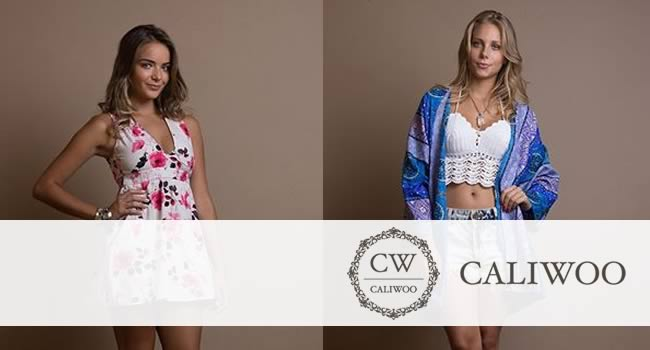
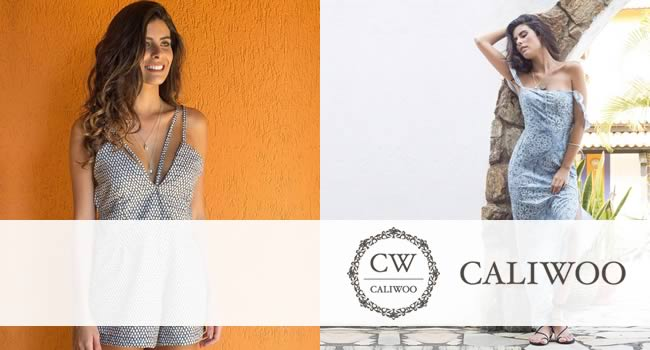
- alterada a disposição do texto do "sobre" - adicionado link no call-to-action da tabela de preços - alterada a imagem do cliente Caliwoo

diff --git a/_includes/sobre.html b/_includes/sobre.html
@@ -3,19 +3,24 @@
         <div class="row">
             <div class="col-lg-8 col-lg-offset-2 text-center">
                 <h2 class="section-heading">Nós temos o que seu negócio precisa!</h2>
-                <hr class="light">
-                <p class="text-faded">
-                    O Compre.io é uma plataforma integrada ao Instagram que visa aumentar a taxa de conversão nas lojas virtuais. O Instagram é uma ótima ferramenta para capitação de leads e possui um vasto feed de imagens, mas como transformar esses leads em clientes?
-                </p>
-                <p class="text-faded">
-                    Já imaginou quantos clientes gostaram de um produto, quiseram comprar e ao acessar o site não encontraram? E quantos desistiram da compra nesse processo de fechar o aplicativo, abrir o navegador, utilizar a ferramenta de busca... Muito complexo e demorado, certo?
-                </p>
-                <p class="text-faded">
-                    Foi pensando nisso, que surgiu o Compre.io !
-                </p>
-                <p class="text-faded">
-                    Ao invés de usar o link para a loja virtual, a marca troca o link do perfil do Instagram para sua pagina do Compre.io (por exemplo: <a style="color: #333" href="http://compre.io/caliwoostore">http://compre.io/caliwoostore</a>). O processo é bem simples, o cliente visualiza a foto, curte e clica no link. Na página do Compre.io, o cliente visualiza o mesmo feed de imagens do Instagram, mas com uma grande diferença, as imagens são links diretos para a página do produto. Em segundos o cliente sai do Instagram e está pronto para finalizar a compra.
-                </p>
+                <hr class="light" />
+                <div class="col-md-6">
+                    <p class="text-faded">
+                        O Compre.io é uma plataforma integrada ao Instagram que visa aumentar a taxa de conversão nas lojas virtuais. O Instagram é uma ótima ferramenta para capitação de leads e possui um vasto feed de imagens, mas como transformar esses leads em clientes?
+                    </p>
+                </div>
+                <div class="col-md-6">
+                    <p class="text-faded">
+                        Já imaginou quantos clientes gostaram de um produto, quiseram comprar e ao acessar o site não encontraram? E quantos desistiram da compra nesse processo de fechar o aplicativo, abrir o navegador, utilizar a ferramenta de busca... Muito complexo e demorado, certo?
+                    </p>
+                </div>
+                <div class="col-md-12">
+                    <h3>Foi pensando nisso, que surgiu o Compre.io !</h3>
+                    <hr class="light" />
+                    <p class="text-faded">
+                        Ao invés de usar o link para a loja virtual, a marca troca o link do perfil do Instagram para sua pagina do Compre.io (por exemplo: <a style="color: #333" href="http://compre.io/caliwoostore">http://compre.io/caliwoostore</a>). O processo é bem simples, o cliente visualiza a foto, curte e clica no link. Na página do Compre.io, o cliente visualiza o mesmo feed de imagens do Instagram, mas com uma grande diferença, as imagens são links diretos para a página do produto. Em segundos o cliente sai do Instagram e está pronto para finalizar a compra.
+                    </p>
+                </div>
                 <a href="#" class="btn btn-default btn-xl" data-toggle="modal" data-target="#sign">Exprimente Grátis por 30 dias</a>
             </div>
         </div>

diff --git a/_includes/planos.html b/_includes/planos.html
@@ -35,7 +35,7 @@
                         &nbsp;
                     </li>
                     <li class="plan-action">
-                        <a href="#" class="btn btn-danger btn-lg btn-outline">Experimente Já!</a>
+                        <a href="#" class="btn btn-danger btn-lg btn-outline" data-toggle="modal" data-target="#sign">Experimente Já!</a>
                     </li>
                 </ul>
             </div>
@@ -66,7 +66,7 @@
                         Newsletter (capture emails)
                     </li>
                     <li class="plan-action">
-                        <a href="#" class="btn btn-danger btn-lg wow tada">Experimente Já!</a>
+                        <a href="#" class="btn btn-danger btn-lg wow tada" data-toggle="modal" data-target="#sign">Experimente Já!</a>
                     </li>
                 </ul>
             </div>
@@ -97,7 +97,7 @@
                         Newsletter (capture emails)
                     </li>
                     <li class="plan-action">
-                        <a href="#" class="btn btn-danger btn-lg btn-outline">Experimente Já!</a>
+                        <a href="#" class="btn btn-danger btn-lg btn-outline" data-toggle="modal" data-target="#sign">Experimente Já!</a>
                     </li>
                 </ul>
             </div>

diff --git a/_sass/_base.scss b/_sass/_base.scss
@@ -340,6 +340,19 @@ header {
     padding: 15px 30px;
 }
 
+// Sobre
+
+#sobre {
+    p {
+        text-align: justify;
+        font-weight: 100;
+    }
+
+    a.btn {
+        margin-top: 30px;
+    }
+}
+
 // Contact
 #contact .fa {
     color: $theme-dark;
